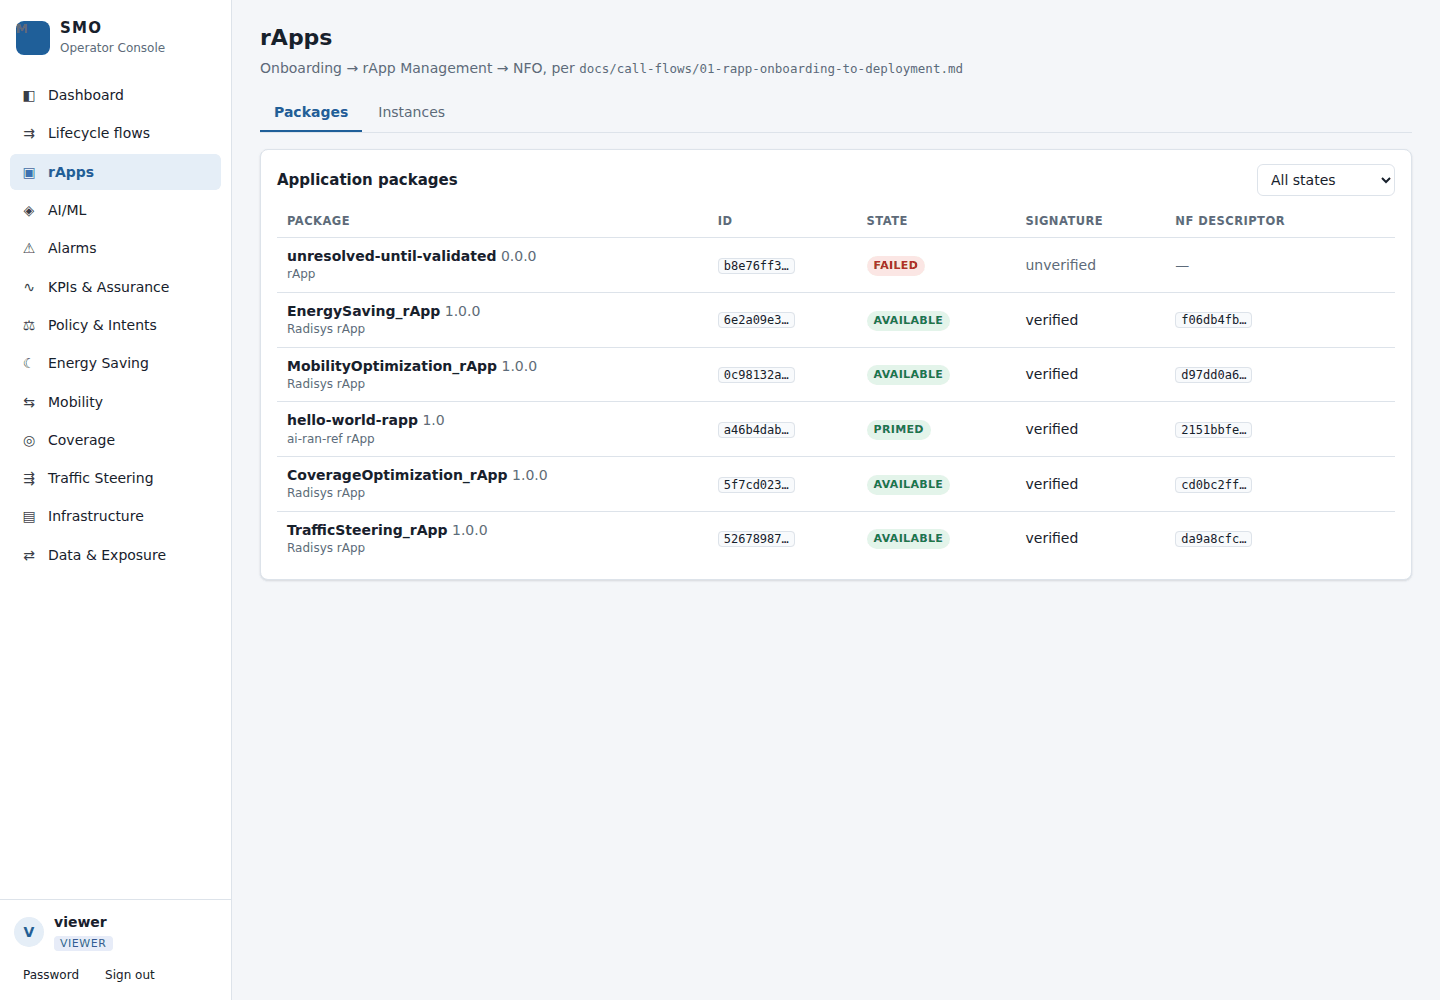
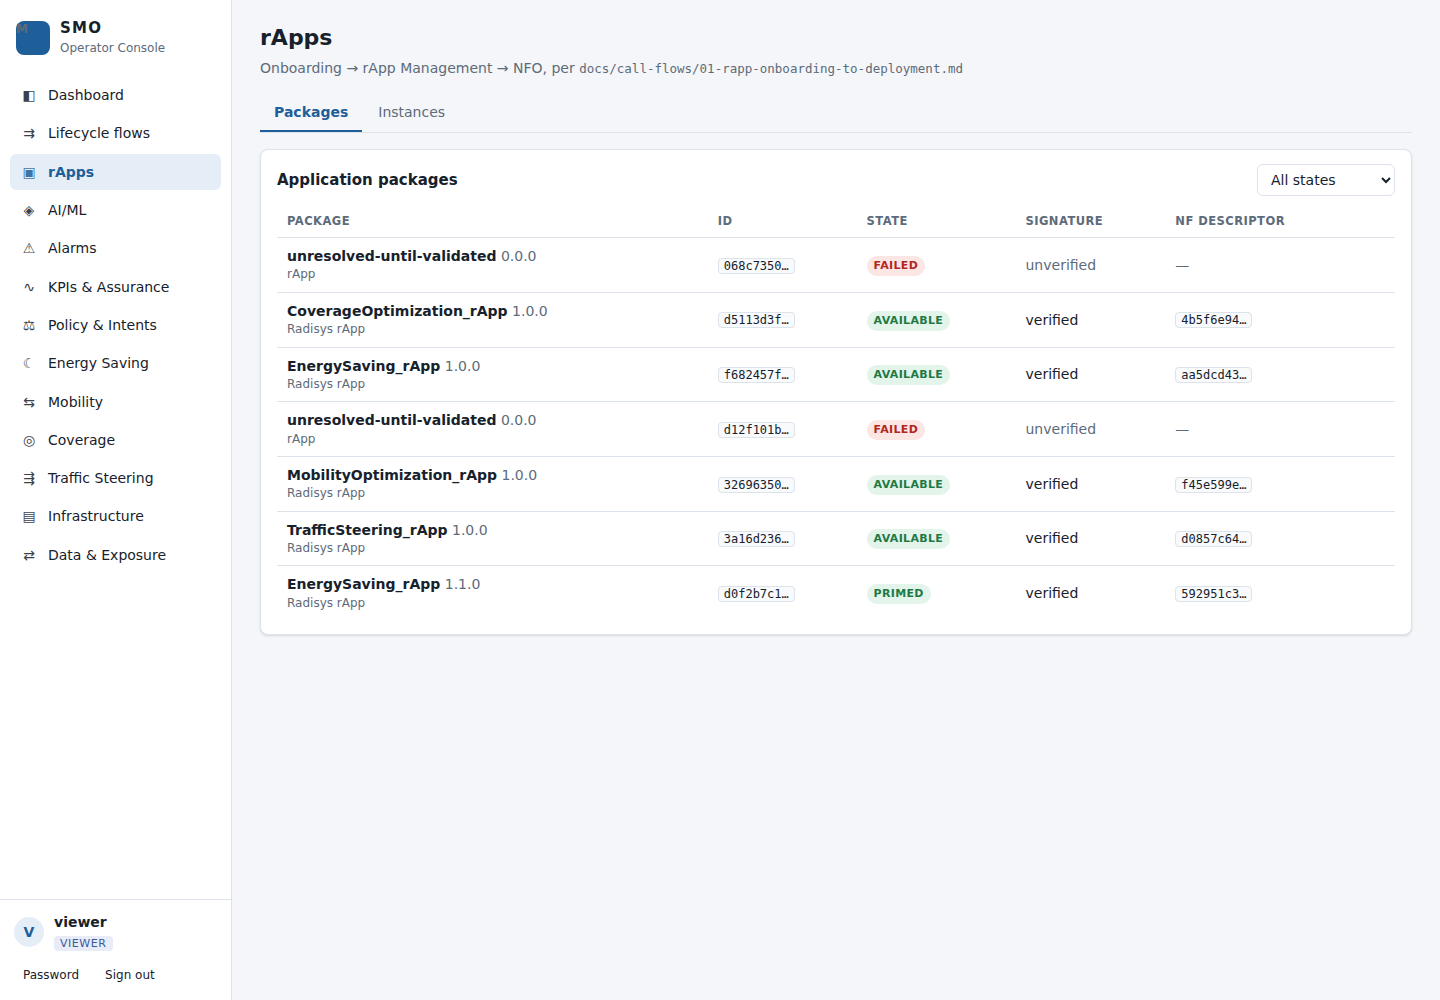
GUI screenshots: recapture the remaining screens that showed the hello-world rApp (policy, KPIs, flows, roles, O1)
Claude-Session: https://claude.ai/code/session_01VCsWQt2u8pqvfhABDQ7jdj

diff --git a/smo/gui/README.md b/smo/gui/README.md
@@ -195,7 +195,7 @@ Each table: the page's tabs first, then the lifecycle screens for that module.
 
 | Screen | What it shows |
 |---|---|
-| [Packages (tab)](docs/screenshots/pages/rapps-packages.png) | Onboarded packages with state, signature and NF descriptor; one FAILED, one PRIMED, the rest AVAILABLE |
+| [Packages (tab)](docs/screenshots/pages/rapps-packages.png) | Onboarded packages with state, signature and NF descriptor; two FAILED (rejected duplicate onboardings), the rest AVAILABLE |
 | [Instances (tab)](docs/screenshots/pages/rapps-instances.png) | rApp instances with state and autonomy mode (SHADOW, ASSIST, AUTONOMOUS) |
 | [Package: failed validation](docs/screenshots/lcm/rapps-package-failed.png) | A package that never became AVAILABLE; nothing to deploy, only Delete |
 | [Onboard a package](docs/screenshots/lcm/rapps-onboard-form.png) | The CSAR location form, filled but not submitted |
